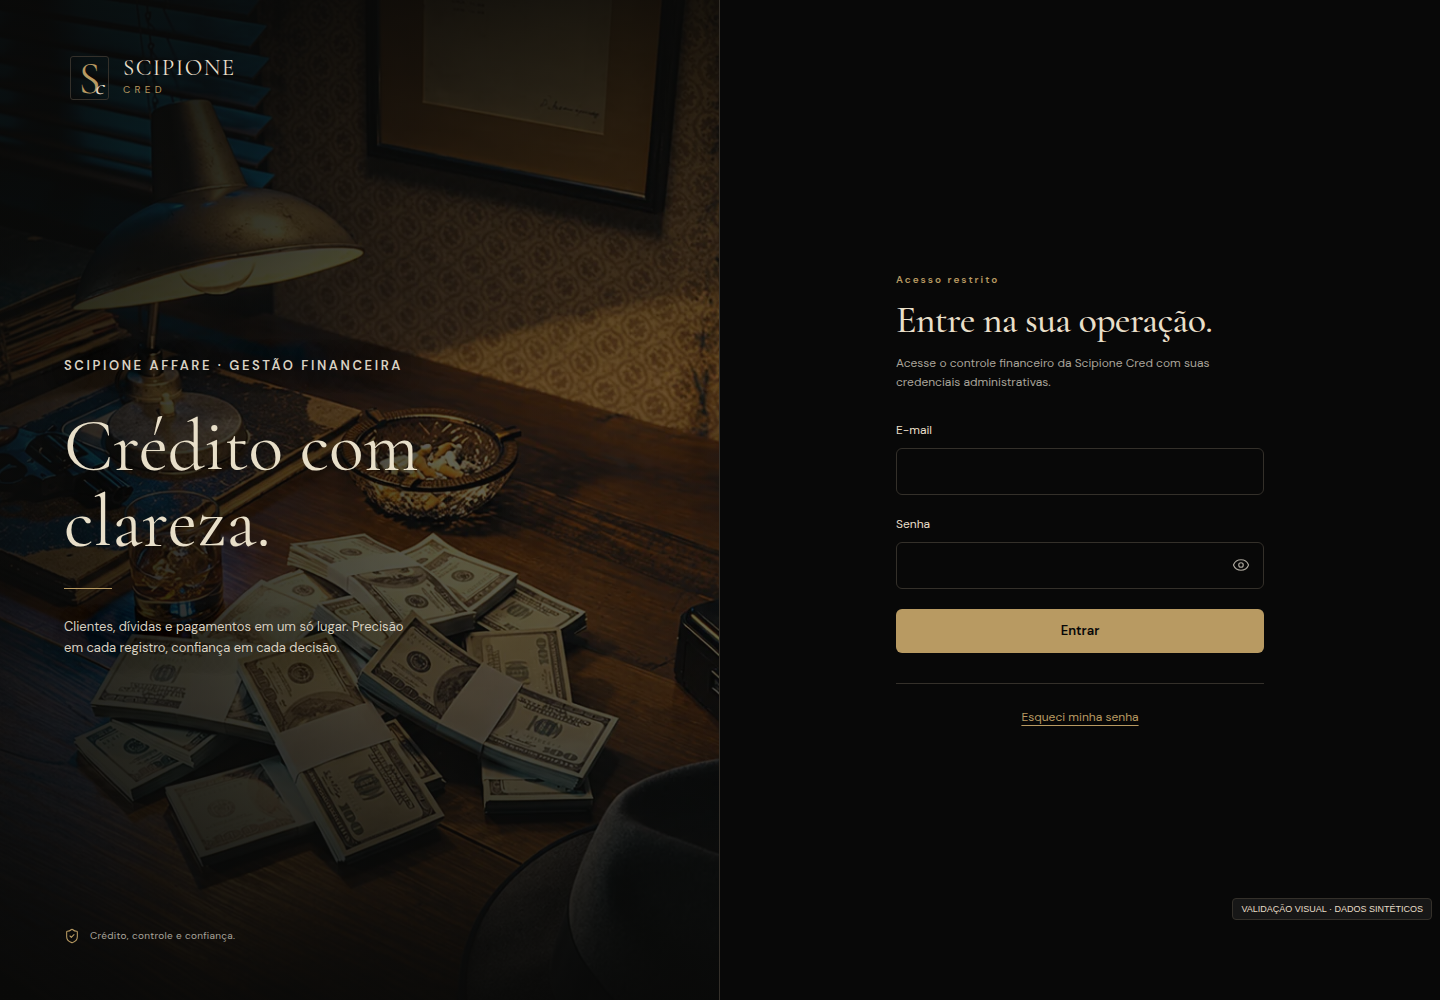
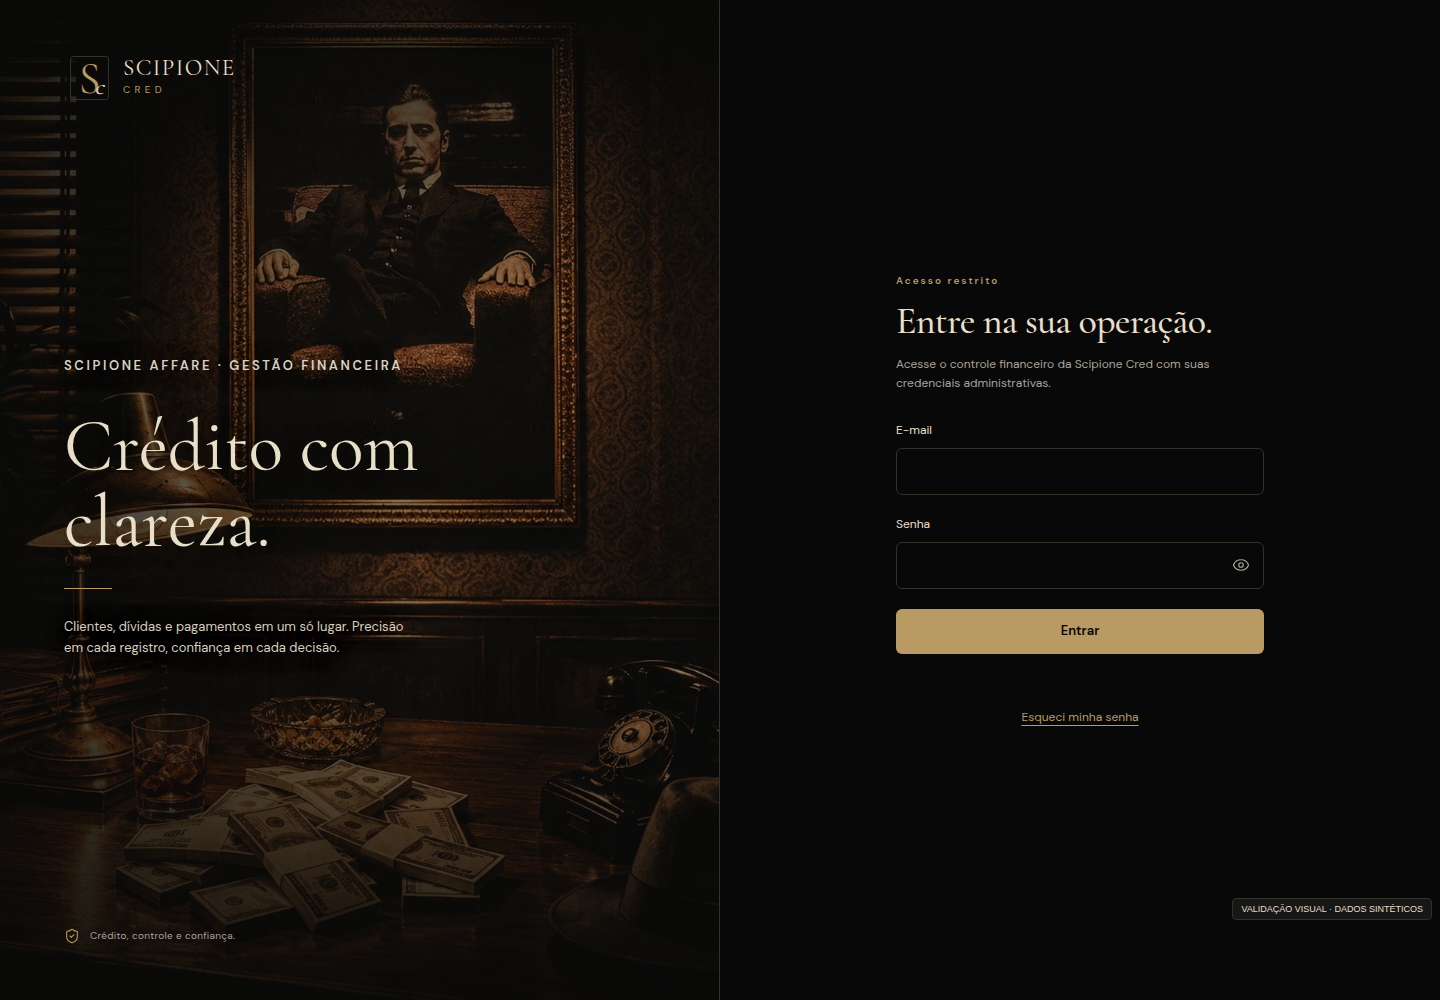
feat: aplicar nova fotografia do escritório no login
Substitui o fundo pela cena com o retrato emoldurado na parede, gera recorte próprio para a faixa mobile, suaviza o escurecimento para valorizar a foto e remove o título no mobile.

Changed region(s): [[0.0, 0.062, 0.5, 0.899], [0.625, 0.279, 0.8438, 0.403], [0.25, 0.031, 0.2812, 0.062]]

diff --git a/src/styles/base.css b/src/styles/base.css
@@ -468,7 +468,7 @@ dd { margin: 0; overflow-wrap: anywhere; }
 .auth-story { position: relative; isolation: isolate; overflow: hidden; }
 .auth-story-media, .auth-story-scrim { position: absolute; inset: 0; z-index: 0; }
 .auth-story-media img { display: block; width: 100%; height: 100%; object-fit: cover; object-position: 44% 55%; }
-.auth-story-scrim { background: linear-gradient(180deg, rgba(9, 9, 8, .9) 0%, rgba(9, 9, 8, .46) 38%, rgba(9, 9, 8, .62) 70%, rgba(9, 9, 8, .95) 100%), linear-gradient(90deg, rgba(9, 9, 8, .78) 0%, rgba(9, 9, 8, .28) 62%, rgba(9, 9, 8, .08) 100%); }
+.auth-story-scrim { background: linear-gradient(180deg, rgba(9, 9, 8, .82) 0%, rgba(9, 9, 8, .3) 34%, rgba(9, 9, 8, .5) 72%, rgba(9, 9, 8, .92) 100%), linear-gradient(90deg, rgba(9, 9, 8, .66) 0%, rgba(9, 9, 8, .2) 58%, rgba(9, 9, 8, .04) 100%); }
 .auth-brand, .auth-story-body, .auth-story > footer { position: relative; z-index: 1; }
 .auth-story-body { text-shadow: 0 1px 22px rgba(0, 0, 0, .5); }
 .auth-story h2, .auth-story p { color: var(--marfim); }
@@ -479,7 +479,8 @@ dd { margin: 0; overflow-wrap: anywhere; }
 @media (max-width: 767px) {
   .auth-story { height: 252px; padding: 20px 22px 22px; }
   .auth-story-media img { object-position: 52% 60%; }
-  .auth-story-scrim { background: linear-gradient(180deg, rgba(9, 9, 8, .88) 0%, rgba(9, 9, 8, .3) 46%, rgba(9, 9, 8, .92) 100%); }
+  .auth-story-scrim { background: linear-gradient(180deg, rgba(9, 9, 8, .88) 0%, rgba(9, 9, 8, .3) 46%, rgba(9, 9, 8, .92) 100%), linear-gradient(90deg, rgba(9, 9, 8, .74) 0%, rgba(9, 9, 8, .34) 26%, rgba(9, 9, 8, 0) 52%); }
+  .auth-story-body h2 { display: none; }
   .auth-story .brand { margin: 0; }
   .auth-story > footer { display: none; }
   .auth-story-body { margin: 0; }

diff --git a/src/components/auth-layout.js b/src/components/auth-layout.js
@@ -8,7 +8,7 @@ export function authLayout({
   asideText = 'Clientes, dívidas e pagamentos em um só lugar. Precisão em cada registro, confiança em cada decisão.',
 } = {}) {
   return `<main class="auth-layout"><section class="auth-story" aria-label="Scipione Cred">
-    <picture class="auth-story-media" aria-hidden="true"><source media="(max-width: 767px)" srcset="/images/login-desk-800.webp"><img src="/images/login-desk-1492.webp" alt="" width="1492" height="1054" fetchpriority="high" decoding="async"></picture>
+    <picture class="auth-story-media" aria-hidden="true"><source media="(max-width: 767px)" srcset="/images/login-desk-800.webp"><img src="/images/login-desk-1492.webp" alt="" width="1280" height="1280" fetchpriority="high" decoding="async"></picture>
     <span class="auth-story-scrim" aria-hidden="true"></span>
     <a class="brand auth-brand" href="#/login" aria-label="Scipione Cred">${marca()}</a>
     <div class="auth-story-body"><p class="auth-eyebrow">SCIPIONE AFFARE · GESTÃO FINANCEIRA</p><h2>${esc(asideTitle)}</h2><div class="auth-story-rule" aria-hidden="true"></div><p class="auth-story-copy">${esc(asideText)}</p></div>
